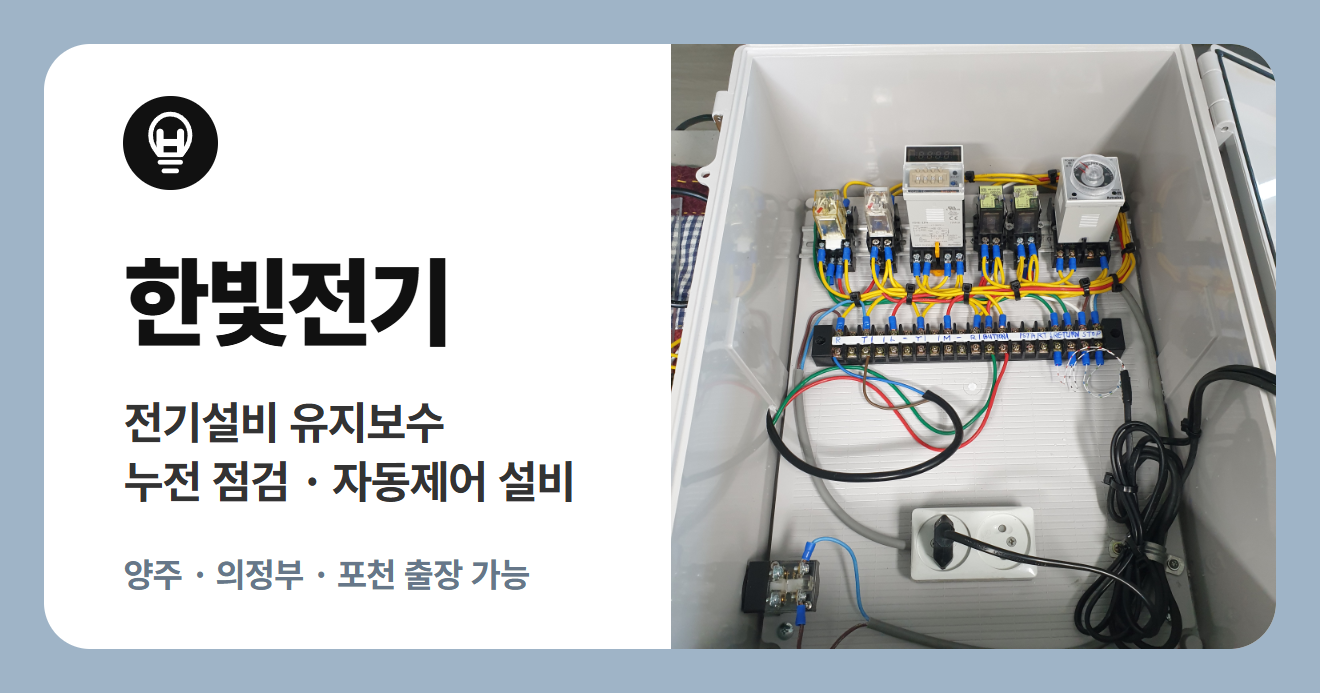
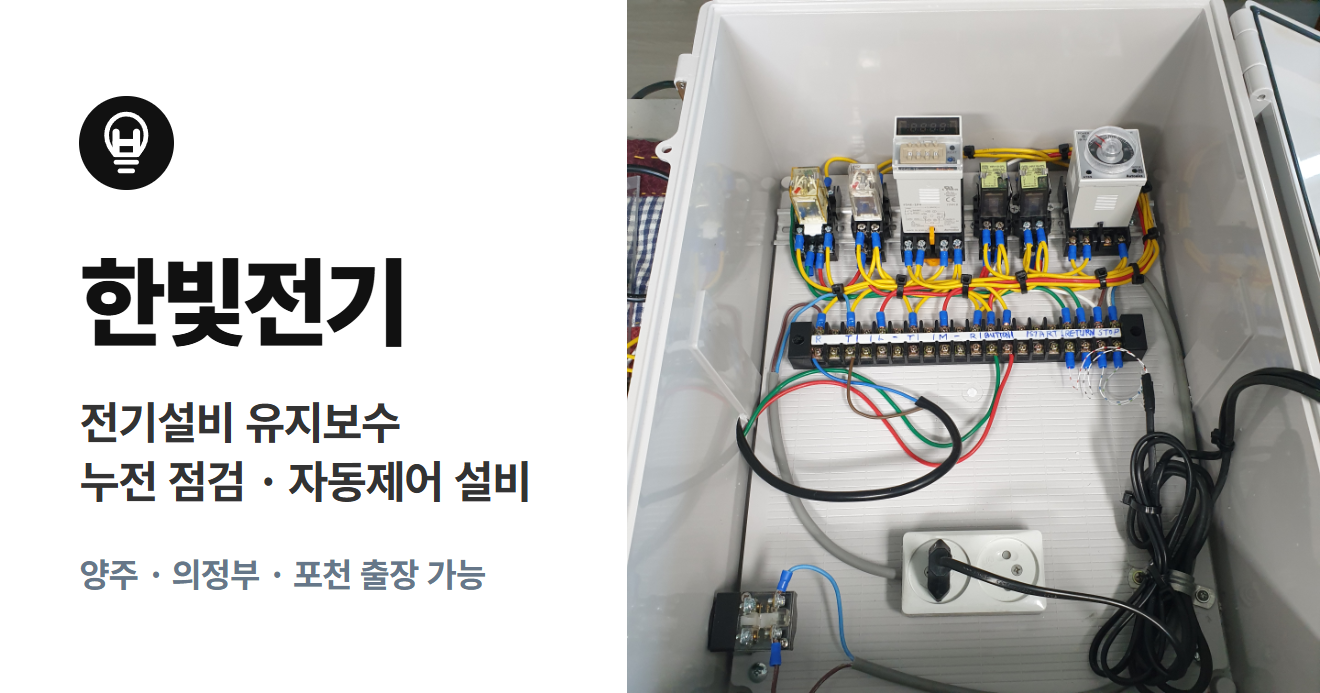
[한빛전기] og 여백조절

diff --git a/og.html b/og.html
@@ -20,7 +20,6 @@
         display: flex;
         align-items: center;
         justify-content: center;
-        padding: 40px;
         width: 1200px;
         height: 630px;
         background: #9fb4c7;
@@ -35,7 +34,6 @@
         padding: 64px 72px;
         width: 100%;
         height: 100%;
-        border-radius: 42px;
         background: #fff;
       }
 
@@ -85,8 +83,8 @@
         position: absolute;
         top: 0;
         right: 0;
-        width: 550px;
-        height: 550px;
+        width: 630px;
+        height: 630px;
       }
 
       .og__img img {
